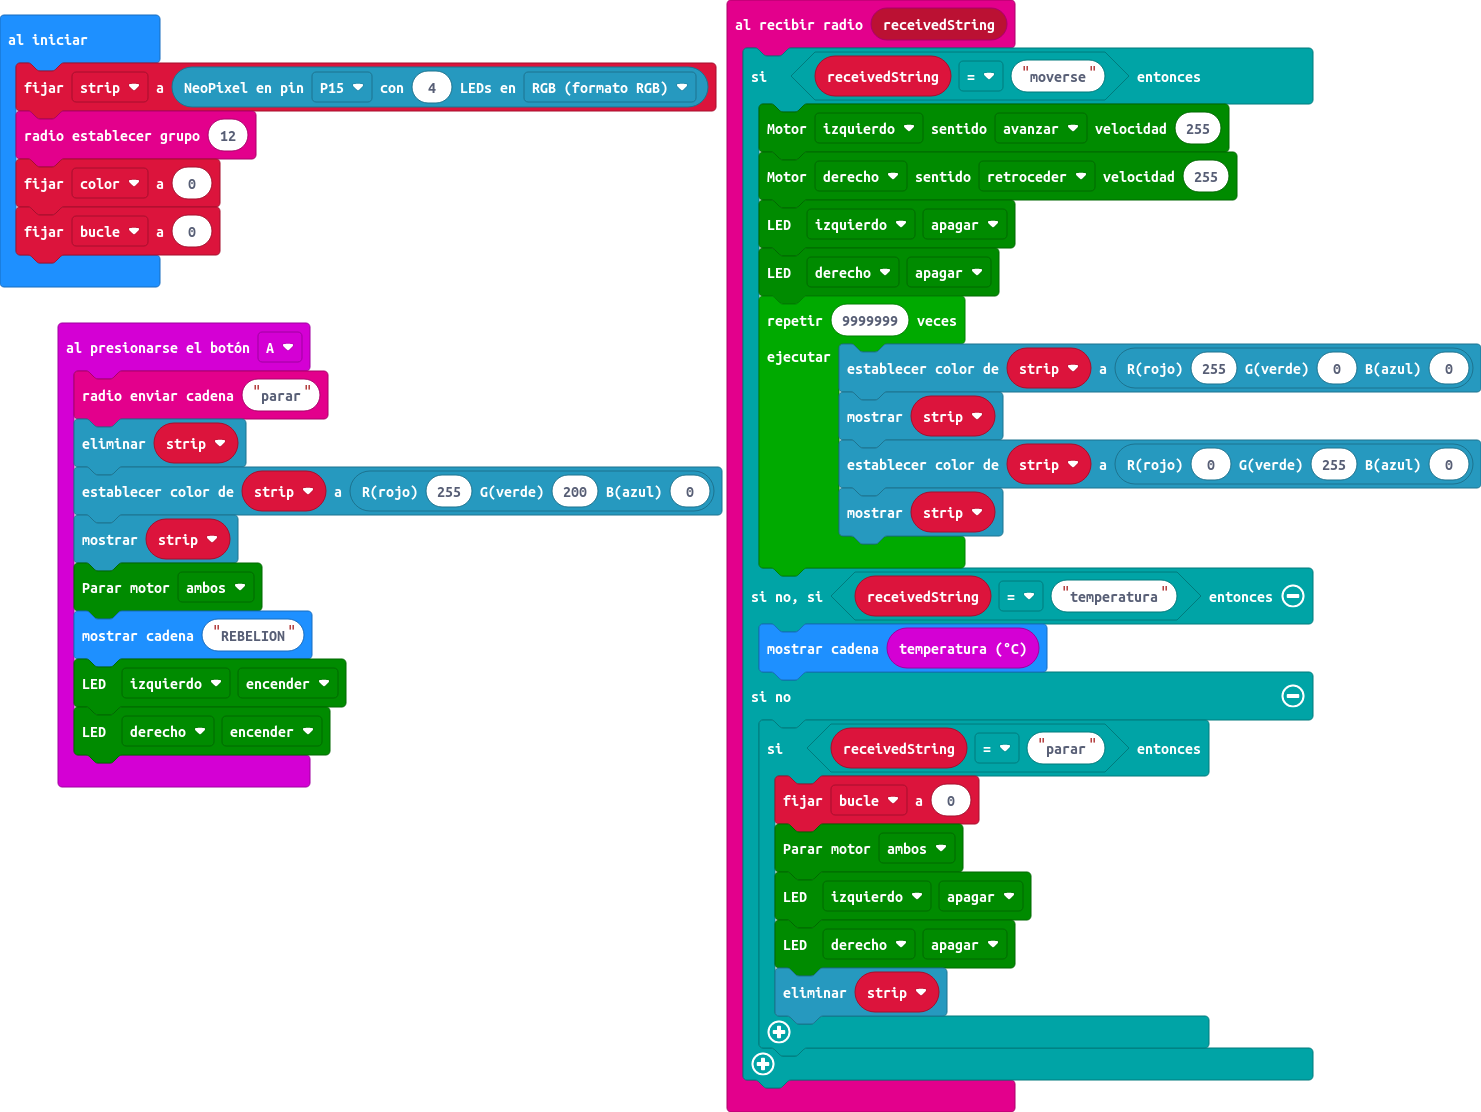
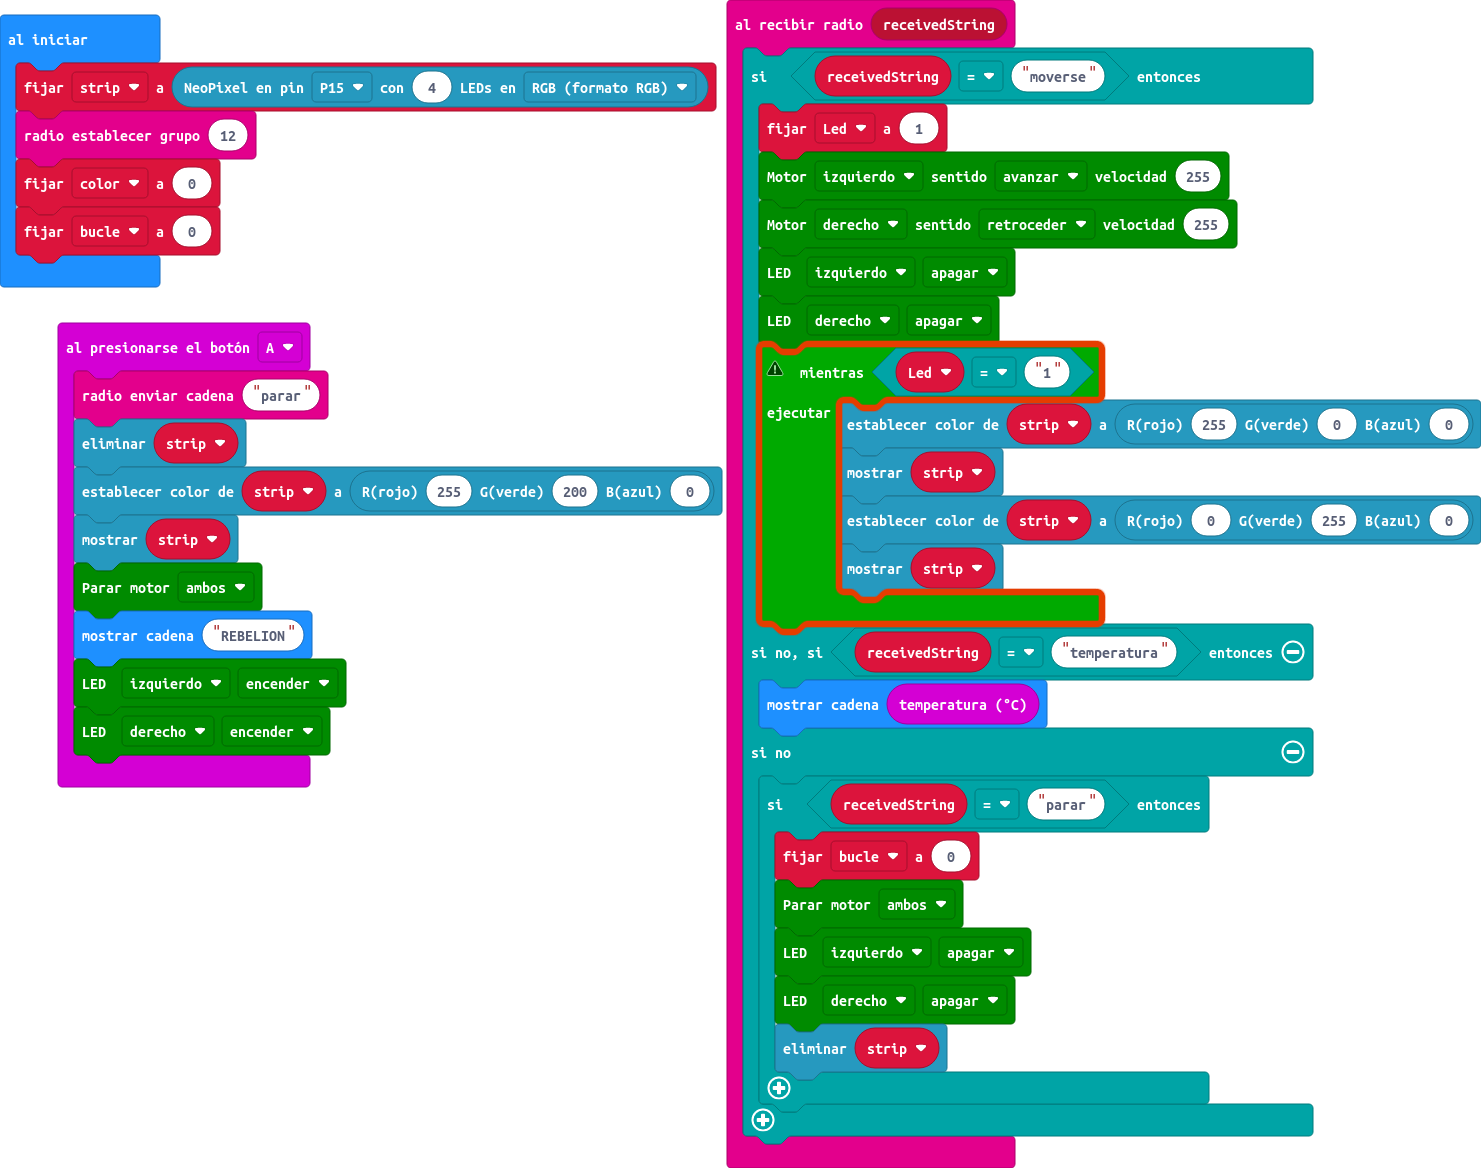
Actualizar main.blocks, main.ts

Changed region(s): [[0.0, 0.0, 1.0, 0.9784], [0.8076, 0.9173, 0.8697, 0.9478]]

diff --git a/main.ts b/main.ts
@@ -10,11 +10,12 @@ input.onButtonPressed(Button.A, function () {
 })
 radio.onReceivedString(function (receivedString) {
     if (receivedString == "moverse") {
+        Led = 1
         maqueen.motorRun(maqueen.Motors.M1, maqueen.Dir.CW, 255)
         maqueen.motorRun(maqueen.Motors.M2, maqueen.Dir.CCW, 255)
         maqueen.writeLED(maqueen.LED.LEDLeft, maqueen.LEDswitch.turnOff)
         maqueen.writeLED(maqueen.LED.LEDRight, maqueen.LEDswitch.turnOff)
-        for (let index = 0; index < 9999999; index++) {
+        while (Led == "1") {
             strip.showColor(neopixel.rgb(255, 0, 0))
             strip.show()
             strip.showColor(neopixel.rgb(0, 255, 0))
@@ -32,6 +33,7 @@ radio.onReceivedString(function (receivedString) {
         }
     }
 })
+let Led = 0
 let bucle = 0
 let strip: neopixel.Strip = null
 strip = neopixel.create(DigitalPin.P15, 4, NeoPixelMode.RGB)
